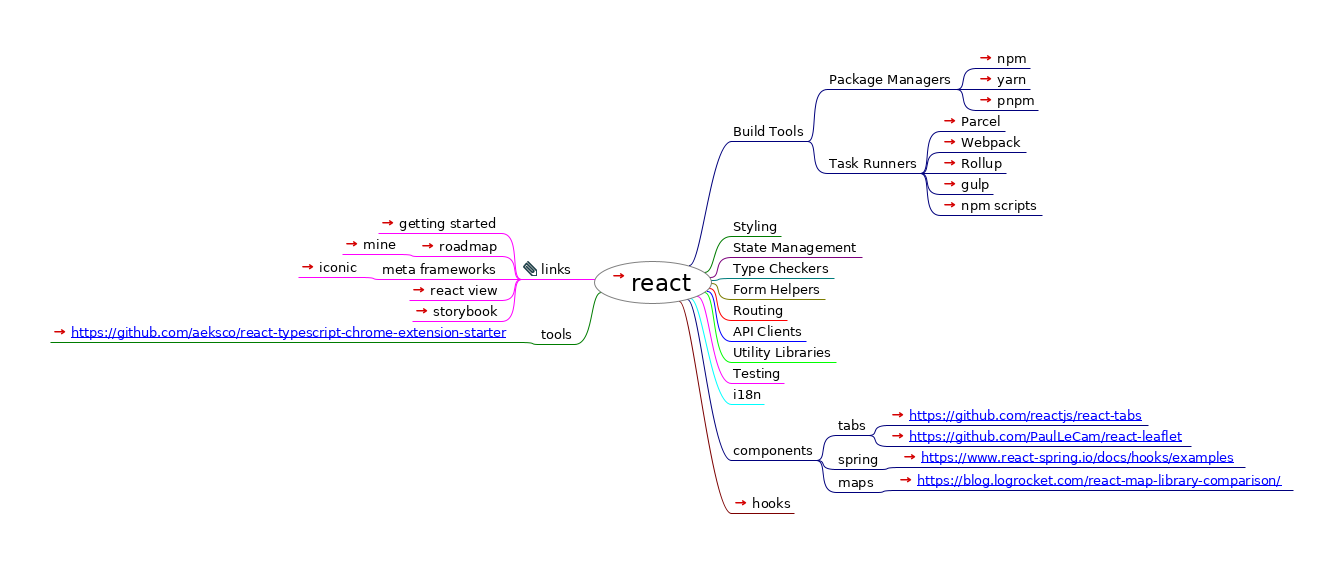
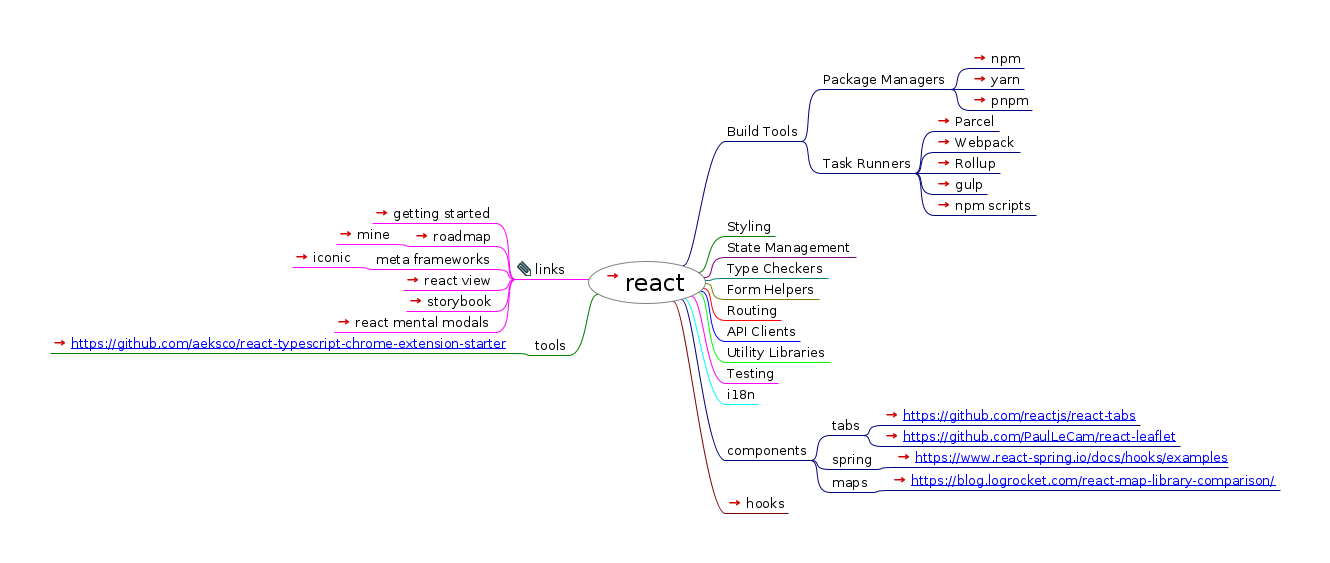
add react mental models

diff --git a/react/index.html b/react/index.html
@@ -23,57 +23,58 @@
                    };
                };
           
-          --></script></head><body><h1>react</h1><div style="width:96%;  padding:2%;  margin-bottom:10px;  border: 0px;  text-align:center;  vertical-align:center;"><img src="index.html_files/image.png" style="margin-bottom:10px; &#9;border: 0px; &#9;text-align:center; &#9;vertical-align:center;" alt="Imagemap" usemap="#fm_imagemap" /></div><map name="fm_imagemap" id="fm_imagemap"><area shape="rect" href="../index.html" alt="react" title="react" coords="594,261,712,304" />
-<area shape="rect" href="#FMID_990086409FM" alt="links" title="links" coords="521,261,575,279" />
-<area shape="rect" href="https://reactjs.org/docs/getting-started.html" alt="getting started" title="getting started" coords="378,215,502,233" />
-<area shape="rect" href="https://github.com/adam-golab/react-developer-roadmap" alt="roadmap" title="roadmap" coords="418,238,502,256" />
-<area shape="rect" href="roadmap.html" alt="mine" title="mine" coords="342,236,399,254" />
-<area shape="rect" href="#FMID_1544605098FM" alt="meta frameworks" title="meta frameworks" coords="380,261,502,279" />
-<area shape="rect" href="https://ionicframework.com/blog/announcing-ionic-react/" alt="iconic" title="iconic" coords="298,259,361,277" />
-<area shape="rect" href="https://baseweb.design/blog/introducing-react-view/" alt="react view" title="react view" coords="409,282,502,300" />
-<area shape="rect" href="https://storybook.js.org/" alt="storybook" title="storybook" coords="412,303,502,321" />
-<area shape="rect" href="#FMID_198452527FM" alt="tools" title="tools" coords="539,326,575,344" />
-<area shape="rect" href="https://github.com/aeksco/react-typescript-chrome-extension-starter" alt="https://github.com/aeksco/react-typescri ..." title="https://github.com/aeksco/react-typescri ..." coords="50,324,520,342" />
-<area shape="rect" href="#FMID_724688107FM" alt="Build Tools" title="Build Tools" coords="731,123,808,141" />
-<area shape="rect" href="#FMID_1501344868FM" alt="Package Managers" title="Package Managers" coords="827,71,957,89" />
-<area shape="rect" href="https://www.npmjs.com/" alt="npm" title="npm" coords="976,50,1030,68" />
-<area shape="rect" href="https://yarnpkg.com/lang/en/" alt="yarn" title="yarn" coords="976,71,1030,89" />
-<area shape="rect" href="https://pnpm.js.org/" alt="pnpm" title="pnpm" coords="976,92,1038,110" />
-<area shape="rect" href="#FMID_592275761FM" alt="Task Runners" title="Task Runners" coords="827,155,921,173" />
-<area shape="rect" href="https://parceljs.org/" alt="Parcel" title="Parcel" coords="940,113,1005,131" />
-<area shape="rect" href="https://webpack.js.org/" alt="Webpack" title="Webpack" coords="940,134,1026,152" />
-<area shape="rect" href="https://rollupjs.org/guide/en" alt="Rollup" title="Rollup" coords="940,155,1006,173" />
-<area shape="rect" href="https://gulpjs.com/" alt="gulp" title="gulp" coords="940,176,993,194" />
-<area shape="rect" href="https://docs.npmjs.com/misc/scripts" alt="npm scripts" title="npm scripts" coords="940,197,1042,215" />
-<area shape="rect" href="#FMID_1267363076FM" alt="Styling" title="Styling" coords="731,218,781,236" />
-<area shape="rect" href="#FMID_1952310218FM" alt="State Management" title="State Management" coords="731,239,862,257" />
-<area shape="rect" href="#FMID_1289375581FM" alt="Type Checkers" title="Type Checkers" coords="731,260,834,278" />
-<area shape="rect" href="#FMID_1385748350FM" alt="Form Helpers" title="Form Helpers" coords="731,281,825,299" />
-<area shape="rect" href="#FMID_1228318416FM" alt="Routing" title="Routing" coords="731,302,787,320" />
-<area shape="rect" href="#FMID_1434625848FM" alt="API Clients" title="API Clients" coords="731,323,806,341" />
-<area shape="rect" href="#FMID_1862350426FM" alt="Utility Libraries" title="Utility Libraries" coords="731,344,836,362" />
-<area shape="rect" href="#FMID_1596624615FM" alt="Testing" title="Testing" coords="731,365,784,383" />
-<area shape="rect" href="#FMID_454994441FM" alt="i18n" title="i18n" coords="731,386,764,404" />
-<area shape="rect" href="#FMID_1505495598FM" alt="components" title="components" coords="731,442,817,460" />
-<area shape="rect" href="#FMID_1663917073FM" alt="tabs" title="tabs" coords="836,417,869,435" />
-<area shape="rect" href="https://github.com/reactjs/react-tabs" alt="https://github.com/reactjs/react-tabs" title="https://github.com/reactjs/react-tabs" coords="888,407,1148,425" />
-<area shape="rect" href="https://github.com/PaulLeCam/react-leaflet" alt="https://github.com/PaulLeCam/react-leafl ..." title="https://github.com/PaulLeCam/react-leafl ..." coords="888,428,1191,446" />
-<area shape="rect" href="#FMID_986349113FM" alt="spring" title="spring" coords="836,451,881,469" />
-<area shape="rect" href="https://www.react-spring.io/docs/hooks/examples" alt="https://www.react-spring.io/docs/hooks/e ..." title="https://www.react-spring.io/docs/hooks/e ..." coords="900,449,1245,467" />
-<area shape="rect" href="#FMID_1508077530FM" alt="maps" title="maps" coords="836,474,877,492" />
-<area shape="rect" href="https://blog.logrocket.com/react-map-library-comparison/" alt="https://blog.logrocket.com/react-map-lib ..." title="https://blog.logrocket.com/react-map-lib ..." coords="896,472,1293,490" />
-<area shape="rect" href="hooks.html" alt="hooks" title="hooks" coords="731,495,794,513" />
+          --></script></head><body><h1>react</h1><div style="width:96%;  padding:2%;  margin-bottom:10px;  border: 0px;  text-align:center;  vertical-align:center;"><img src="index.html_files/image.png" style="margin-bottom:10px; &#9;border: 0px; &#9;text-align:center; &#9;vertical-align:center;" alt="Imagemap" usemap="#fm_imagemap" /></div><map name="fm_imagemap" id="fm_imagemap"><area shape="rect" href="../index.html" alt="react" title="react" coords="588,261,706,304" />
+<area shape="rect" href="#FMID_990086409FM" alt="links" title="links" coords="515,261,569,279" />
+<area shape="rect" href="https://reactjs.org/docs/getting-started.html" alt="getting started" title="getting started" coords="372,205,496,223" />
+<area shape="rect" href="https://github.com/adam-golab/react-developer-roadmap" alt="roadmap" title="roadmap" coords="412,228,496,246" />
+<area shape="rect" href="roadmap.html" alt="mine" title="mine" coords="336,226,393,244" />
+<area shape="rect" href="#FMID_1544605098FM" alt="meta frameworks" title="meta frameworks" coords="374,251,496,269" />
+<area shape="rect" href="https://ionicframework.com/blog/announcing-ionic-react/" alt="iconic" title="iconic" coords="292,249,355,267" />
+<area shape="rect" href="https://baseweb.design/blog/introducing-react-view/" alt="react view" title="react view" coords="403,272,496,290" />
+<area shape="rect" href="https://storybook.js.org/" alt="storybook" title="storybook" coords="406,293,496,311" />
+<area shape="rect" href="https://obedparla.com/code/a-visual-guide-to-react-mental-models/" alt="react mental modals" title="react mental modals" coords="334,314,496,332" />
+<area shape="rect" href="#FMID_198452527FM" alt="tools" title="tools" coords="533,337,569,355" />
+<area shape="rect" href="https://github.com/aeksco/react-typescript-chrome-extension-starter" alt="https://github.com/aeksco/react-typescri ..." title="https://github.com/aeksco/react-typescri ..." coords="50,335,514,353" />
+<area shape="rect" href="#FMID_724688107FM" alt="Build Tools" title="Build Tools" coords="725,123,802,141" />
+<area shape="rect" href="#FMID_1501344868FM" alt="Package Managers" title="Package Managers" coords="821,71,951,89" />
+<area shape="rect" href="https://www.npmjs.com/" alt="npm" title="npm" coords="970,50,1024,68" />
+<area shape="rect" href="https://yarnpkg.com/lang/en/" alt="yarn" title="yarn" coords="970,71,1024,89" />
+<area shape="rect" href="https://pnpm.js.org/" alt="pnpm" title="pnpm" coords="970,92,1032,110" />
+<area shape="rect" href="#FMID_592275761FM" alt="Task Runners" title="Task Runners" coords="821,155,915,173" />
+<area shape="rect" href="https://parceljs.org/" alt="Parcel" title="Parcel" coords="934,113,999,131" />
+<area shape="rect" href="https://webpack.js.org/" alt="Webpack" title="Webpack" coords="934,134,1020,152" />
+<area shape="rect" href="https://rollupjs.org/guide/en" alt="Rollup" title="Rollup" coords="934,155,1000,173" />
+<area shape="rect" href="https://gulpjs.com/" alt="gulp" title="gulp" coords="934,176,987,194" />
+<area shape="rect" href="https://docs.npmjs.com/misc/scripts" alt="npm scripts" title="npm scripts" coords="934,197,1036,215" />
+<area shape="rect" href="#FMID_1267363076FM" alt="Styling" title="Styling" coords="725,218,775,236" />
+<area shape="rect" href="#FMID_1952310218FM" alt="State Management" title="State Management" coords="725,239,856,257" />
+<area shape="rect" href="#FMID_1289375581FM" alt="Type Checkers" title="Type Checkers" coords="725,260,828,278" />
+<area shape="rect" href="#FMID_1385748350FM" alt="Form Helpers" title="Form Helpers" coords="725,281,819,299" />
+<area shape="rect" href="#FMID_1228318416FM" alt="Routing" title="Routing" coords="725,302,781,320" />
+<area shape="rect" href="#FMID_1434625848FM" alt="API Clients" title="API Clients" coords="725,323,800,341" />
+<area shape="rect" href="#FMID_1862350426FM" alt="Utility Libraries" title="Utility Libraries" coords="725,344,830,362" />
+<area shape="rect" href="#FMID_1596624615FM" alt="Testing" title="Testing" coords="725,365,778,383" />
+<area shape="rect" href="#FMID_454994441FM" alt="i18n" title="i18n" coords="725,386,758,404" />
+<area shape="rect" href="#FMID_1505495598FM" alt="components" title="components" coords="725,442,811,460" />
+<area shape="rect" href="#FMID_1663917073FM" alt="tabs" title="tabs" coords="830,417,863,435" />
+<area shape="rect" href="https://github.com/reactjs/react-tabs" alt="https://github.com/reactjs/react-tabs" title="https://github.com/reactjs/react-tabs" coords="882,407,1140,425" />
+<area shape="rect" href="https://github.com/PaulLeCam/react-leaflet" alt="https://github.com/PaulLeCam/react-leafl ..." title="https://github.com/PaulLeCam/react-leafl ..." coords="882,428,1180,446" />
+<area shape="rect" href="#FMID_986349113FM" alt="spring" title="spring" coords="830,451,875,469" />
+<area shape="rect" href="https://www.react-spring.io/docs/hooks/examples" alt="https://www.react-spring.io/docs/hooks/e ..." title="https://www.react-spring.io/docs/hooks/e ..." coords="894,449,1228,467" />
+<area shape="rect" href="#FMID_1508077530FM" alt="maps" title="maps" coords="830,474,871,492" />
+<area shape="rect" href="https://blog.logrocket.com/react-map-library-comparison/" alt="https://blog.logrocket.com/react-map-lib ..." title="https://blog.logrocket.com/react-map-lib ..." coords="890,472,1280,490" />
+<area shape="rect" href="hooks.html" alt="hooks" title="hooks" coords="725,495,788,513" />
 </map>
 
-<div class="node"><img src="index.html_files/hide.png" class="hideshow" alt="hide" onClick="toggle(&quot;N65543&quot;)" id="imgN65543" /><a id="FMID_43637424FM" /><div class="nodecontent" style="color:#000000;font-size:150%;"><a href="../index.html">react</a> <a href="../index.html"><img src="index.html_files/ilink.png" alt="User Link" style="border-width:0" /></a></div><div class="content" id="N65543"><div class="node"><img src="index.html_files/hide.png" class="hideshow" alt="hide" onClick="toggle(&quot;N66440&quot;)" id="imgN66440" /><img src="index.html_files/icons/attach.svg" alt="attach" /> <a id="FMID_990086409FM" /><div class="nodecontent" style="color:#000000;font-size:83%;">links</div><div class="content" id="N66440"><div class="node"><img src="index.html_files/leaf.png" class="hideshow" alt="leaf" /><a id="FMID_1710336257FM" /><div class="nodecontent" style="color:#000000;font-size:83%;"><a href="https://reactjs.org/docs/getting-started.html">getting started</a> <a href="https://reactjs.org/docs/getting-started.html"><img src="index.html_files/ilink.png" alt="User Link" style="border-width:0" /></a></div></div><div class="node"><img src="index.html_files/hide.png" class="hideshow" alt="hide" onClick="toggle(&quot;N66518&quot;)" id="imgN66518" /><a id="FMID_1313044671FM" /><div class="nodecontent" style="color:#000000;font-size:83%;"><a href="https://github.com/adam-golab/react-developer-roadmap">roadmap</a> <a href="https://github.com/adam-golab/react-developer-roadmap"><img src="index.html_files/ilink.png" alt="User Link" style="border-width:0" /></a></div><div class="content" id="N66518"><div class="node"><img src="index.html_files/leaf.png" class="hideshow" alt="leaf" /><a id="FMID_63308067FM" /><div class="nodecontent" style="color:#000000;font-size:83%;"><a href="roadmap.html">mine</a> <a href="roadmap.html"><img src="index.html_files/ilink.png" alt="User Link" style="border-width:0" /></a></div></div></div></div><div class="node"><img src="index.html_files/hide.png" class="hideshow" alt="hide" onClick="toggle(&quot;N66592&quot;)" id="imgN66592" /><a id="FMID_1544605098FM" /><div class="nodecontent" style="color:#000000;font-size:83%;">meta frameworks</div><div class="content" id="N66592"><div class="node"><img src="index.html_files/leaf.png" class="hideshow" alt="leaf" /><a id="FMID_662028730FM" /><div class="nodecontent" style="color:#000000;font-size:83%;"><a href="https://ionicframework.com/blog/announcing-ionic-react/">iconic</a> <a href="https://ionicframework.com/blog/announcing-ionic-react/"><img src="index.html_files/ilink.png" alt="User Link" style="border-width:0" /></a></div></div></div></div><div class="node"><img src="index.html_files/leaf.png" class="hideshow" alt="leaf" /><a id="FMID_1353090153FM" /><div class="nodecontent" style="color:#000000;font-size:83%;"><a href="https://baseweb.design/blog/introducing-react-view/">react view</a> <a href="https://baseweb.design/blog/introducing-react-view/"><img src="index.html_files/ilink.png" alt="User Link" style="border-width:0" /></a></div></div><div class="node"><img src="index.html_files/leaf.png" class="hideshow" alt="leaf" /><a id="FMID_1418687782FM" /><div class="nodecontent" style="color:#000000;font-size:83%;"><a href="https://storybook.js.org/">storybook</a> <a href="https://storybook.js.org/"><img src="index.html_files/ilink.png" alt="User Link" style="border-width:0" /></a></div></div></div></div><div class="node"><img src="index.html_files/hide.png" class="hideshow" alt="hide" onClick="toggle(&quot;N66740&quot;)" id="imgN66740" /><a id="FMID_198452527FM" /><div class="nodecontent" style="color:#000000;font-size:83%;">tools</div><div class="content" id="N66740"><div class="node"><img src="index.html_files/leaf.png" class="hideshow" alt="leaf" /><a id="FMID_1761135339FM" /><div class="nodecontent" style="color:#000000;font-size:83%;"><a href="https://github.com/aeksco/react-typescript-chrome-extension-starter">
+<div class="node"><img src="index.html_files/hide.png" class="hideshow" alt="hide" onClick="toggle(&quot;N65543&quot;)" id="imgN65543" /><a id="FMID_43637424FM" /><div class="nodecontent" style="color:#000000;font-size:150%;"><a href="../index.html">react</a> <a href="../index.html"><img src="index.html_files/ilink.png" alt="User Link" style="border-width:0" /></a></div><div class="content" id="N65543"><div class="node"><img src="index.html_files/hide.png" class="hideshow" alt="hide" onClick="toggle(&quot;N66440&quot;)" id="imgN66440" /><img src="index.html_files/icons/attach.svg" alt="attach" /> <a id="FMID_990086409FM" /><div class="nodecontent" style="color:#000000;font-size:83%;">links</div><div class="content" id="N66440"><div class="node"><img src="index.html_files/leaf.png" class="hideshow" alt="leaf" /><a id="FMID_1710336257FM" /><div class="nodecontent" style="color:#000000;font-size:83%;"><a href="https://reactjs.org/docs/getting-started.html">getting started</a> <a href="https://reactjs.org/docs/getting-started.html"><img src="index.html_files/ilink.png" alt="User Link" style="border-width:0" /></a></div></div><div class="node"><img src="index.html_files/hide.png" class="hideshow" alt="hide" onClick="toggle(&quot;N66518&quot;)" id="imgN66518" /><a id="FMID_1313044671FM" /><div class="nodecontent" style="color:#000000;font-size:83%;"><a href="https://github.com/adam-golab/react-developer-roadmap">roadmap</a> <a href="https://github.com/adam-golab/react-developer-roadmap"><img src="index.html_files/ilink.png" alt="User Link" style="border-width:0" /></a></div><div class="content" id="N66518"><div class="node"><img src="index.html_files/leaf.png" class="hideshow" alt="leaf" /><a id="FMID_63308067FM" /><div class="nodecontent" style="color:#000000;font-size:83%;"><a href="roadmap.html">mine</a> <a href="roadmap.html"><img src="index.html_files/ilink.png" alt="User Link" style="border-width:0" /></a></div></div></div></div><div class="node"><img src="index.html_files/hide.png" class="hideshow" alt="hide" onClick="toggle(&quot;N66592&quot;)" id="imgN66592" /><a id="FMID_1544605098FM" /><div class="nodecontent" style="color:#000000;font-size:83%;">meta frameworks</div><div class="content" id="N66592"><div class="node"><img src="index.html_files/leaf.png" class="hideshow" alt="leaf" /><a id="FMID_662028730FM" /><div class="nodecontent" style="color:#000000;font-size:83%;"><a href="https://ionicframework.com/blog/announcing-ionic-react/">iconic</a> <a href="https://ionicframework.com/blog/announcing-ionic-react/"><img src="index.html_files/ilink.png" alt="User Link" style="border-width:0" /></a></div></div></div></div><div class="node"><img src="index.html_files/leaf.png" class="hideshow" alt="leaf" /><a id="FMID_1353090153FM" /><div class="nodecontent" style="color:#000000;font-size:83%;"><a href="https://baseweb.design/blog/introducing-react-view/">react view</a> <a href="https://baseweb.design/blog/introducing-react-view/"><img src="index.html_files/ilink.png" alt="User Link" style="border-width:0" /></a></div></div><div class="node"><img src="index.html_files/leaf.png" class="hideshow" alt="leaf" /><a id="FMID_1418687782FM" /><div class="nodecontent" style="color:#000000;font-size:83%;"><a href="https://storybook.js.org/">storybook</a> <a href="https://storybook.js.org/"><img src="index.html_files/ilink.png" alt="User Link" style="border-width:0" /></a></div></div><div class="node"><img src="index.html_files/leaf.png" class="hideshow" alt="leaf" /><a id="FMID_1046743230FM" /><div class="nodecontent" style="color:#000000;font-size:83%;"><a href="https://obedparla.com/code/a-visual-guide-to-react-mental-models/">react mental modals</a> <a href="https://obedparla.com/code/a-visual-guide-to-react-mental-models/"><img src="index.html_files/ilink.png" alt="User Link" style="border-width:0" /></a></div></div></div></div><div class="node"><img src="index.html_files/hide.png" class="hideshow" alt="hide" onClick="toggle(&quot;N66777&quot;)" id="imgN66777" /><a id="FMID_198452527FM" /><div class="nodecontent" style="color:#000000;font-size:83%;">tools</div><div class="content" id="N66777"><div class="node"><img src="index.html_files/leaf.png" class="hideshow" alt="leaf" /><a id="FMID_1761135339FM" /><div class="nodecontent" style="color:#000000;font-size:83%;"><a href="https://github.com/aeksco/react-typescript-chrome-extension-starter">
     <a http-equiv="content-type" content="text/html; charset=utf-8" href="https://github.com/aeksco/react-typescript-chrome-extension-starter">https://github.com/aeksco/react-typescript-chrome-extension-starter</a>
-  </a> <a href="https://github.com/aeksco/react-typescript-chrome-extension-starter"><img src="index.html_files/ilink.png" alt="User Link" style="border-width:0" /></a></div></div></div></div><div class="node"><img src="index.html_files/hide.png" class="hideshow" alt="hide" onClick="toggle(&quot;N66832&quot;)" id="imgN66832" /><a id="FMID_724688107FM" /><div class="nodecontent" style="color:#000000;font-size:83%;">Build Tools</div><div class="content" id="N66832"><div class="node"><img src="index.html_files/hide.png" class="hideshow" alt="hide" onClick="toggle(&quot;N66868&quot;)" id="imgN66868" /><a id="FMID_1501344868FM" /><div class="nodecontent" style="color:#000000;font-size:83%;">Package Managers</div><div class="content" id="N66868"><div class="node"><img src="index.html_files/leaf.png" class="hideshow" alt="leaf" /><a id="FMID_1504932536FM" /><div class="nodecontent" style="color:#000000;font-size:83%;"><a href="https://www.npmjs.com/">npm</a> <a href="https://www.npmjs.com/"><img src="index.html_files/ilink.png" alt="User Link" style="border-width:0" /></a></div></div><div class="node"><img src="index.html_files/leaf.png" class="hideshow" alt="leaf" /><a id="FMID_188558832FM" /><div class="nodecontent" style="color:#000000;font-size:83%;"><a href="https://yarnpkg.com/lang/en/">yarn</a> <a href="https://yarnpkg.com/lang/en/"><img src="index.html_files/ilink.png" alt="User Link" style="border-width:0" /></a></div></div><div class="node"><img src="index.html_files/leaf.png" class="hideshow" alt="leaf" /><a id="FMID_698465838FM" /><div class="nodecontent" style="color:#000000;font-size:83%;"><a href="https://pnpm.js.org/">pnpm</a> <a href="https://pnpm.js.org/"><img src="index.html_files/ilink.png" alt="User Link" style="border-width:0" /></a></div></div></div></div><div class="node"><img src="index.html_files/hide.png" class="hideshow" alt="hide" onClick="toggle(&quot;N67015&quot;)" id="imgN67015" /><a id="FMID_592275761FM" /><div class="nodecontent" style="color:#000000;font-size:83%;">Task Runners</div><div class="content" id="N67015"><div class="node"><img src="index.html_files/leaf.png" class="hideshow" alt="leaf" /><a id="FMID_1059037154FM" /><div class="nodecontent" style="color:#000000;font-size:83%;"><a href="https://parceljs.org/">Parcel</a> <a href="https://parceljs.org/"><img src="index.html_files/ilink.png" alt="User Link" style="border-width:0" /></a></div></div><div class="node"><img src="index.html_files/leaf.png" class="hideshow" alt="leaf" /><a id="FMID_1143630574FM" /><div class="nodecontent" style="color:#000000;font-size:83%;"><a href="https://webpack.js.org/">Webpack</a> <a href="https://webpack.js.org/"><img src="index.html_files/ilink.png" alt="User Link" style="border-width:0" /></a></div></div><div class="node"><img src="index.html_files/leaf.png" class="hideshow" alt="leaf" /><a id="FMID_839105692FM" /><div class="nodecontent" style="color:#000000;font-size:83%;"><a href="https://rollupjs.org/guide/en">Rollup</a> <a href="https://rollupjs.org/guide/en"><img src="index.html_files/ilink.png" alt="User Link" style="border-width:0" /></a></div></div><div class="node"><img src="index.html_files/leaf.png" class="hideshow" alt="leaf" /><a id="FMID_1625995004FM" /><div class="nodecontent" style="color:#000000;font-size:83%;"><a href="https://gulpjs.com/">gulp</a> <a href="https://gulpjs.com/"><img src="index.html_files/ilink.png" alt="User Link" style="border-width:0" /></a></div></div><div class="node"><img src="index.html_files/leaf.png" class="hideshow" alt="leaf" /><a id="FMID_1300991999FM" /><div class="nodecontent" style="color:#000000;font-size:83%;"><a href="https://docs.npmjs.com/misc/scripts">npm scripts</a> <a href="https://docs.npmjs.com/misc/scripts"><img src="index.html_files/ilink.png" alt="User Link" style="border-width:0" /></a></div></div></div></div></div></div><div class="node"><img src="index.html_files/leaf.png" class="hideshow" alt="leaf" /><a id="FMID_1267363076FM" /><div class="nodecontent" style="color:#000000;font-size:83%;">Styling</div></div><div class="node"><img src="index.html_files/leaf.png" class="hideshow" alt="leaf" /><a id="FMID_1952310218FM" /><div class="nodecontent" style="color:#000000;font-size:83%;">State Management</div></div><div class="node"><img src="index.html_files/leaf.png" class="hideshow" alt="leaf" /><a id="FMID_1289375581FM" /><div class="nodecontent" style="color:#000000;font-size:83%;">Type Checkers</div></div><div class="node"><img src="index.html_files/leaf.png" class="hideshow" alt="leaf" /><a id="FMID_1385748350FM" /><div class="nodecontent" style="color:#000000;font-size:83%;">Form Helpers</div></div><div class="node"><img src="index.html_files/leaf.png" class="hideshow" alt="leaf" /><a id="FMID_1228318416FM" /><div class="nodecontent" style="color:#000000;font-size:83%;">Routing</div></div><div class="node"><img src="index.html_files/leaf.png" class="hideshow" alt="leaf" /><a id="FMID_1434625848FM" /><div class="nodecontent" style="color:#000000;font-size:83%;">API Clients</div></div><div class="node"><img src="index.html_files/leaf.png" class="hideshow" alt="leaf" /><a id="FMID_1862350426FM" /><div class="nodecontent" style="color:#000000;font-size:83%;">Utility Libraries</div></div><div class="node"><img src="index.html_files/leaf.png" class="hideshow" alt="leaf" /><a id="FMID_1596624615FM" /><div class="nodecontent" style="color:#000000;font-size:83%;">Testing</div></div><div class="node"><img src="index.html_files/leaf.png" class="hideshow" alt="leaf" /><a id="FMID_454994441FM" /><div class="nodecontent" style="color:#000000;font-size:83%;">i18n</div></div><div class="node"><img src="index.html_files/hide.png" class="hideshow" alt="hide" onClick="toggle(&quot;N67570&quot;)" id="imgN67570" /><a id="FMID_1505495598FM" /><div class="nodecontent" style="color:#000000;font-size:83%;">components</div><div class="content" id="N67570"><div class="node"><img src="index.html_files/hide.png" class="hideshow" alt="hide" onClick="toggle(&quot;N67606&quot;)" id="imgN67606" /><a id="FMID_1663917073FM" /><div class="nodecontent" style="color:#000000;font-size:83%;">tabs</div><div class="content" id="N67606"><div class="node"><img src="index.html_files/leaf.png" class="hideshow" alt="leaf" /><a id="FMID_453444192FM" /><div class="nodecontent" style="color:#000000;font-size:83%;"><a href="https://github.com/reactjs/react-tabs">
+  </a> <a href="https://github.com/aeksco/react-typescript-chrome-extension-starter"><img src="index.html_files/ilink.png" alt="User Link" style="border-width:0" /></a></div></div></div></div><div class="node"><img src="index.html_files/hide.png" class="hideshow" alt="hide" onClick="toggle(&quot;N66869&quot;)" id="imgN66869" /><a id="FMID_724688107FM" /><div class="nodecontent" style="color:#000000;font-size:83%;">Build Tools</div><div class="content" id="N66869"><div class="node"><img src="index.html_files/hide.png" class="hideshow" alt="hide" onClick="toggle(&quot;N66905&quot;)" id="imgN66905" /><a id="FMID_1501344868FM" /><div class="nodecontent" style="color:#000000;font-size:83%;">Package Managers</div><div class="content" id="N66905"><div class="node"><img src="index.html_files/leaf.png" class="hideshow" alt="leaf" /><a id="FMID_1504932536FM" /><div class="nodecontent" style="color:#000000;font-size:83%;"><a href="https://www.npmjs.com/">npm</a> <a href="https://www.npmjs.com/"><img src="index.html_files/ilink.png" alt="User Link" style="border-width:0" /></a></div></div><div class="node"><img src="index.html_files/leaf.png" class="hideshow" alt="leaf" /><a id="FMID_188558832FM" /><div class="nodecontent" style="color:#000000;font-size:83%;"><a href="https://yarnpkg.com/lang/en/">yarn</a> <a href="https://yarnpkg.com/lang/en/"><img src="index.html_files/ilink.png" alt="User Link" style="border-width:0" /></a></div></div><div class="node"><img src="index.html_files/leaf.png" class="hideshow" alt="leaf" /><a id="FMID_698465838FM" /><div class="nodecontent" style="color:#000000;font-size:83%;"><a href="https://pnpm.js.org/">pnpm</a> <a href="https://pnpm.js.org/"><img src="index.html_files/ilink.png" alt="User Link" style="border-width:0" /></a></div></div></div></div><div class="node"><img src="index.html_files/hide.png" class="hideshow" alt="hide" onClick="toggle(&quot;N67052&quot;)" id="imgN67052" /><a id="FMID_592275761FM" /><div class="nodecontent" style="color:#000000;font-size:83%;">Task Runners</div><div class="content" id="N67052"><div class="node"><img src="index.html_files/leaf.png" class="hideshow" alt="leaf" /><a id="FMID_1059037154FM" /><div class="nodecontent" style="color:#000000;font-size:83%;"><a href="https://parceljs.org/">Parcel</a> <a href="https://parceljs.org/"><img src="index.html_files/ilink.png" alt="User Link" style="border-width:0" /></a></div></div><div class="node"><img src="index.html_files/leaf.png" class="hideshow" alt="leaf" /><a id="FMID_1143630574FM" /><div class="nodecontent" style="color:#000000;font-size:83%;"><a href="https://webpack.js.org/">Webpack</a> <a href="https://webpack.js.org/"><img src="index.html_files/ilink.png" alt="User Link" style="border-width:0" /></a></div></div><div class="node"><img src="index.html_files/leaf.png" class="hideshow" alt="leaf" /><a id="FMID_839105692FM" /><div class="nodecontent" style="color:#000000;font-size:83%;"><a href="https://rollupjs.org/guide/en">Rollup</a> <a href="https://rollupjs.org/guide/en"><img src="index.html_files/ilink.png" alt="User Link" style="border-width:0" /></a></div></div><div class="node"><img src="index.html_files/leaf.png" class="hideshow" alt="leaf" /><a id="FMID_1625995004FM" /><div class="nodecontent" style="color:#000000;font-size:83%;"><a href="https://gulpjs.com/">gulp</a> <a href="https://gulpjs.com/"><img src="index.html_files/ilink.png" alt="User Link" style="border-width:0" /></a></div></div><div class="node"><img src="index.html_files/leaf.png" class="hideshow" alt="leaf" /><a id="FMID_1300991999FM" /><div class="nodecontent" style="color:#000000;font-size:83%;"><a href="https://docs.npmjs.com/misc/scripts">npm scripts</a> <a href="https://docs.npmjs.com/misc/scripts"><img src="index.html_files/ilink.png" alt="User Link" style="border-width:0" /></a></div></div></div></div></div></div><div class="node"><img src="index.html_files/leaf.png" class="hideshow" alt="leaf" /><a id="FMID_1267363076FM" /><div class="nodecontent" style="color:#000000;font-size:83%;">Styling</div></div><div class="node"><img src="index.html_files/leaf.png" class="hideshow" alt="leaf" /><a id="FMID_1952310218FM" /><div class="nodecontent" style="color:#000000;font-size:83%;">State Management</div></div><div class="node"><img src="index.html_files/leaf.png" class="hideshow" alt="leaf" /><a id="FMID_1289375581FM" /><div class="nodecontent" style="color:#000000;font-size:83%;">Type Checkers</div></div><div class="node"><img src="index.html_files/leaf.png" class="hideshow" alt="leaf" /><a id="FMID_1385748350FM" /><div class="nodecontent" style="color:#000000;font-size:83%;">Form Helpers</div></div><div class="node"><img src="index.html_files/leaf.png" class="hideshow" alt="leaf" /><a id="FMID_1228318416FM" /><div class="nodecontent" style="color:#000000;font-size:83%;">Routing</div></div><div class="node"><img src="index.html_files/leaf.png" class="hideshow" alt="leaf" /><a id="FMID_1434625848FM" /><div class="nodecontent" style="color:#000000;font-size:83%;">API Clients</div></div><div class="node"><img src="index.html_files/leaf.png" class="hideshow" alt="leaf" /><a id="FMID_1862350426FM" /><div class="nodecontent" style="color:#000000;font-size:83%;">Utility Libraries</div></div><div class="node"><img src="index.html_files/leaf.png" class="hideshow" alt="leaf" /><a id="FMID_1596624615FM" /><div class="nodecontent" style="color:#000000;font-size:83%;">Testing</div></div><div class="node"><img src="index.html_files/leaf.png" class="hideshow" alt="leaf" /><a id="FMID_454994441FM" /><div class="nodecontent" style="color:#000000;font-size:83%;">i18n</div></div><div class="node"><img src="index.html_files/hide.png" class="hideshow" alt="hide" onClick="toggle(&quot;N67607&quot;)" id="imgN67607" /><a id="FMID_1505495598FM" /><div class="nodecontent" style="color:#000000;font-size:83%;">components</div><div class="content" id="N67607"><div class="node"><img src="index.html_files/hide.png" class="hideshow" alt="hide" onClick="toggle(&quot;N67643&quot;)" id="imgN67643" /><a id="FMID_1663917073FM" /><div class="nodecontent" style="color:#000000;font-size:83%;">tabs</div><div class="content" id="N67643"><div class="node"><img src="index.html_files/leaf.png" class="hideshow" alt="leaf" /><a id="FMID_453444192FM" /><div class="nodecontent" style="color:#000000;font-size:83%;"><a href="https://github.com/reactjs/react-tabs">
     <a http-equiv="content-type" content="text/html; charset=utf-8" href="https://github.com/reactjs/react-tabs">https://github.com/reactjs/react-tabs</a>
   </a> <a href="https://github.com/reactjs/react-tabs"><img src="index.html_files/ilink.png" alt="User Link" style="border-width:0" /></a></div></div><div class="node"><img src="index.html_files/leaf.png" class="hideshow" alt="leaf" /><a id="FMID_19921807FM" /><div class="nodecontent" style="color:#000000;font-size:83%;"><a href="https://github.com/PaulLeCam/react-leaflet">
     <a http-equiv="content-type" content="text/html; charset=utf-8" href="https://github.com/PaulLeCam/react-leaflet">https://github.com/PaulLeCam/react-leaflet</a>
-  </a> <a href="https://github.com/PaulLeCam/react-leaflet"><img src="index.html_files/ilink.png" alt="User Link" style="border-width:0" /></a></div></div></div></div><div class="node"><img src="index.html_files/hide.png" class="hideshow" alt="hide" onClick="toggle(&quot;N67752&quot;)" id="imgN67752" /><a id="FMID_986349113FM" /><div class="nodecontent" style="color:#000000;font-size:83%;">spring</div><div class="content" id="N67752"><div class="node"><img src="index.html_files/leaf.png" class="hideshow" alt="leaf" /><a id="FMID_1903890419FM" /><div class="nodecontent" style="color:#000000;font-size:83%;"><a href="https://www.react-spring.io/docs/hooks/examples">
+  </a> <a href="https://github.com/PaulLeCam/react-leaflet"><img src="index.html_files/ilink.png" alt="User Link" style="border-width:0" /></a></div></div></div></div><div class="node"><img src="index.html_files/hide.png" class="hideshow" alt="hide" onClick="toggle(&quot;N67789&quot;)" id="imgN67789" /><a id="FMID_986349113FM" /><div class="nodecontent" style="color:#000000;font-size:83%;">spring</div><div class="content" id="N67789"><div class="node"><img src="index.html_files/leaf.png" class="hideshow" alt="leaf" /><a id="FMID_1903890419FM" /><div class="nodecontent" style="color:#000000;font-size:83%;"><a href="https://www.react-spring.io/docs/hooks/examples">
     <a http-equiv="content-type" content="text/html; charset=utf-8" href="https://www.react-spring.io/docs/hooks/examples">https://www.react-spring.io/docs/hooks/examples</a>
-  </a> <a href="https://www.react-spring.io/docs/hooks/examples"><img src="index.html_files/ilink.png" alt="User Link" style="border-width:0" /></a></div></div></div></div><div class="node"><img src="index.html_files/hide.png" class="hideshow" alt="hide" onClick="toggle(&quot;N67843&quot;)" id="imgN67843" /><a id="FMID_1508077530FM" /><div class="nodecontent" style="color:#000000;font-size:83%;">maps</div><div class="content" id="N67843"><div class="node"><img src="index.html_files/leaf.png" class="hideshow" alt="leaf" /><a id="FMID_1645846646FM" /><div class="nodecontent" style="color:#000000;font-size:83%;"><a href="https://blog.logrocket.com/react-map-library-comparison/">
+  </a> <a href="https://www.react-spring.io/docs/hooks/examples"><img src="index.html_files/ilink.png" alt="User Link" style="border-width:0" /></a></div></div></div></div><div class="node"><img src="index.html_files/hide.png" class="hideshow" alt="hide" onClick="toggle(&quot;N67880&quot;)" id="imgN67880" /><a id="FMID_1508077530FM" /><div class="nodecontent" style="color:#000000;font-size:83%;">maps</div><div class="content" id="N67880"><div class="node"><img src="index.html_files/leaf.png" class="hideshow" alt="leaf" /><a id="FMID_1645846646FM" /><div class="nodecontent" style="color:#000000;font-size:83%;"><a href="https://blog.logrocket.com/react-map-library-comparison/">
     <a http-equiv="content-type" content="text/html; charset=utf-8" href="https://blog.logrocket.com/react-map-library-comparison/">https://blog.logrocket.com/react-map-library-comparison/</a>
   </a> <a href="https://blog.logrocket.com/react-map-library-comparison/"><img src="index.html_files/ilink.png" alt="User Link" style="border-width:0" /></a></div></div></div></div></div></div><div class="node"><img src="index.html_files/leaf.png" class="hideshow" alt="leaf" /><a id="FMID_1974336673FM" /><div class="nodecontent" style="color:#000000;font-size:83%;"><a href="hooks.html">hooks</a> <a href="hooks.html"><img src="index.html_files/ilink.png" alt="User Link" style="border-width:0" /></a></div></div></div></div>
 </body></html>

diff --git a/react/index.mm b/react/index.mm
@@ -1,4 +1,4 @@
-<map version="freeplane 1.7.0">
+<map version="freeplane 1.8.0">
 <!--To view this file, download free mind mapping software Freeplane from http://freeplane.sourceforge.net -->
 <node TEXT="react" FOLDED="false" ID="ID_43637424" CREATED="1570527567769" MODIFIED="1570527604613" LINK="../index.mm" STYLE="oval">
 <font SIZE="18"/>
@@ -76,6 +76,7 @@
 </node>
 <node TEXT="react view" ID="ID_1353090153" CREATED="1577603835871" MODIFIED="1577611563038" LINK="https://baseweb.design/blog/introducing-react-view/"/>
 <node TEXT="storybook" ID="ID_1418687782" CREATED="1577611575614" MODIFIED="1577611583019" LINK="https://storybook.js.org/"/>
+<node TEXT="react mental modals" ID="ID_1046743230" CREATED="1588112838929" MODIFIED="1588112845860" LINK="https://obedparla.com/code/a-visual-guide-to-react-mental-models/"/>
 </node>
 <node TEXT="tools" POSITION="left" ID="ID_198452527" CREATED="1578215073365" MODIFIED="1578215075106">
 <edge COLOR="#007c00"/>
